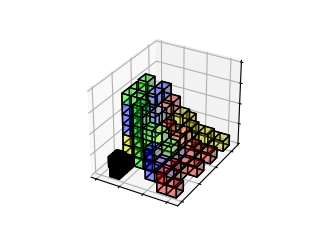
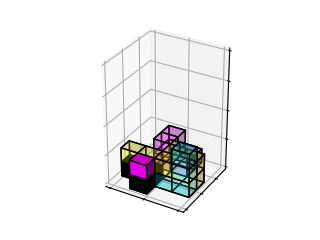
x out used pieces, refresh previews before turn

Changed region(s): [[0.2812, 0.1167, 0.7812, 0.9042]]

diff --git a/static/script.js b/static/script.js
@@ -67,6 +67,14 @@ function nextTurn() {
         var timestamp = new Date().getTime();
         var image = document.getElementById("gameBoard");
         image.src = `static/test_0.png?t=${timestamp}`
+
+        // loop through pieces returned and display each one
+        const pieces = ['4x1', '3x1', '2x1', 'L', 'square', 'corner', 'pipe', 'bend', 'archer', 'twistL', 'twistR']
+        // const pieces = data['piece_list']
+        for (const piece of pieces) {
+            var image = document.getElementById(piece);
+            image.src = `static/${piece}.png?t=${timestamp}`
+        }
     });
 }
 
@@ -102,6 +110,14 @@ function nextTurn_human(evt) {
         var timestamp = new Date().getTime();
         var image = document.getElementById("gameBoard");
         image.src = `static/test_0.png?t=${timestamp}`
+
+        // loop through pieces returned and display each one
+        const pieces = ['4x1', '3x1', '2x1', 'L', 'square', 'corner', 'pipe', 'bend', 'archer', 'twistL', 'twistR']
+        // const pieces = data['piece_list']
+        for (const piece of pieces) {
+            var image = document.getElementById(piece);
+            image.src = `static/${piece}.png?t=${timestamp}`
+        }
     });
 }
 
@@ -152,6 +168,7 @@ function movePieces(evt) {
         var timestamp = new Date().getTime();
         // Loop through array of each piece
         const pieces = ['4x1', '3x1', '2x1', 'L', 'square', 'corner', 'pipe', 'bend', 'archer', 'twistL', 'twistR']
+        // const pieces = data['piece_list']
         for (const piece of pieces) {
             var image = document.getElementById(piece);
             image.src = `static/${piece}.png?t=${timestamp}`

diff --git a/templates/index.html b/templates/index.html
@@ -24,6 +24,8 @@
         <option value="red">Red</option>
         <option value="blue">Blue</option>
         <option value="green">Green</option>
+        <option value="cyan">Cyan</option>
+        <option value="magenta">Magenta</option>
     </select>
 
     <br>
@@ -39,6 +41,8 @@
         <option value="red">Red</option>
         <option value="blue">Blue</option>
         <option value="green">Green</option>
+        <option value="cyan">Cyan</option>
+        <option value="magenta">Magenta</option>
     </select>
 
     <br>
@@ -54,6 +58,8 @@
         <option value="red">Red</option>
         <option value="blue">Blue</option>
         <option value="green">Green</option>
+        <option value="cyan">Cyan</option>
+        <option value="magenta">Magenta</option>
     </select>
 
     <br>
@@ -69,6 +75,8 @@
         <option value="red">Red</option>
         <option value="blue">Blue</option>
         <option value="green">Green</option>
+        <option value="cyan">Cyan</option>
+        <option value="magenta">Magenta</option>
     </select>
 
     <br>

diff --git a/modules/functions.py b/modules/functions.py
@@ -72,7 +72,9 @@ class Competitor:
                     'red': [1, 0, 0],
                     'yellow': [1, 1, 0],
                     'green': [0, 1, 0],
-                    'blue': [0, 0, 1]
+                    'blue': [0, 0, 1],
+                    'cyan': [0, 1, 1],
+                    'magenta': [1, 0, 1]
                 }
 
                 piece_grid = np.where(piece_grid == -1, 0, piece_grid)
@@ -114,6 +116,14 @@ class Competitor:
                 source_path = 'static//invalid_move.png'
                 destination_path = f'static//{piece_name}.png'
                 shutil.copy(source_path, destination_path)
+
+        full_piece_names_list = [
+            '4x1', '3x1', '2x1', 'L', 'square', 'corner', 'pipe', 'bend', 'archer', 'twistL', 'twistR'
+        ]
+        for piece_name in list(set(full_piece_names_list) - set(self.piece_names_list)):
+            source_path = 'static//invalid_move.png'
+            destination_path = f'static//{piece_name}.png'
+            shutil.copy(source_path, destination_path)
 
 
 class board:
@@ -354,10 +364,10 @@ def human_move(player_turn, players, grid, piece_i):
     player = players[player_turn]
 
     piece_i = player.piece_names_list.index(piece_i)
-    piece = player.piece_list[piece_i]
-    x, y, z, rot_x, rot_y, rot_z = player.piece_profile_positions
+    piece = player.piece_list.pop(piece_i)
+    piece_name = player.piece_names_list.pop(piece_i)
 
-    piece_name = player.piece_names_list[piece_i]
+    x, y, z, rot_x, rot_y, rot_z = player.piece_profile_positions
     piece = orient2(piece, rot_x, rot_y, rot_z)
     layer = fill_out2(piece, grid.grid, x, y, z)
     grid.grid += layer
@@ -453,7 +463,17 @@ def start_game(
     grid = board(board_name)
 
     # Draw first humans pieces
-    p2.draw_pieces(grid, players)  # TODO: hardcoded
+    try:
+        if p1.owner == 'human':
+            p1.draw_pieces(grid, players)
+        elif p2.owner == 'human':
+            p2.draw_pieces(grid, players)
+        elif p3.owner == 'human':
+            p3.draw_pieces(grid, players)
+        elif p4.owner == 'human':
+            p4.draw_pieces(grid, players)
+    except UnboundLocalError:
+        p1.draw_pieces(grid, players)
 
     return players, grid
 

diff --git a/app.py b/app.py
@@ -55,9 +55,6 @@ def nextTurn():
     next_player_turn = str(((session['turn'] + 1) % len(players)) + 1)
     print(f"Player {player_turn}'s turn, next turn: {next_player_turn} (# players: {len(players)})")
 
-    players[player_turn].turn += 1
-    players[next_player_turn].draw_pieces(grid, players, 0, 0, 0, 0, 0, 0)
-
     if players[player_turn].owner == 'cp':
         players, grid = play_turn(session['turn'], players, grid)
     elif players[player_turn].owner == 'human':
@@ -67,12 +64,15 @@ def nextTurn():
     for player in players.values():
         player.piece_profile_positions = (0, 0, 0, 0, 0, 0)
 
+    players[player_turn].turn += 1
+    players[next_player_turn].draw_pieces(grid, players)
+
     # Save game's data
     session['players'] = jsonpickle.encode(players)
     session['grid'] = jsonpickle.encode(grid)
     session['turn'] += 1
 
-    return jsonify({'turn': session['turn']})  # return the result to JavaScript
+    return jsonify({'turn': session['turn'], 'piece_list': players[next_player_turn].piece_names_list})  # return the result to JavaScript
 
 
 @app.route('/movePiece', methods=['POST'])
@@ -82,6 +82,7 @@ def move_piece():
     players = jsonpickle.decode(session['players'])
     grid = jsonpickle.decode(session['grid'])
     player_turn = str((session['turn'] % len(players)) + 1)
+    next_player_turn = str(((session['turn'] + 1) % len(players)) + 1)
     move = data['move']
 
     player = players[player_turn]
@@ -116,7 +117,7 @@ def move_piece():
 
     session['players'] = jsonpickle.encode(players)
 
-    return jsonify({'result': 'hi'})  # return the result to JavaScript
+    return jsonify({'piece_list': players[next_player_turn].piece_names_list})  # return the result to JavaScript
 
 
 @app.route('/reset', methods=['POST'])
